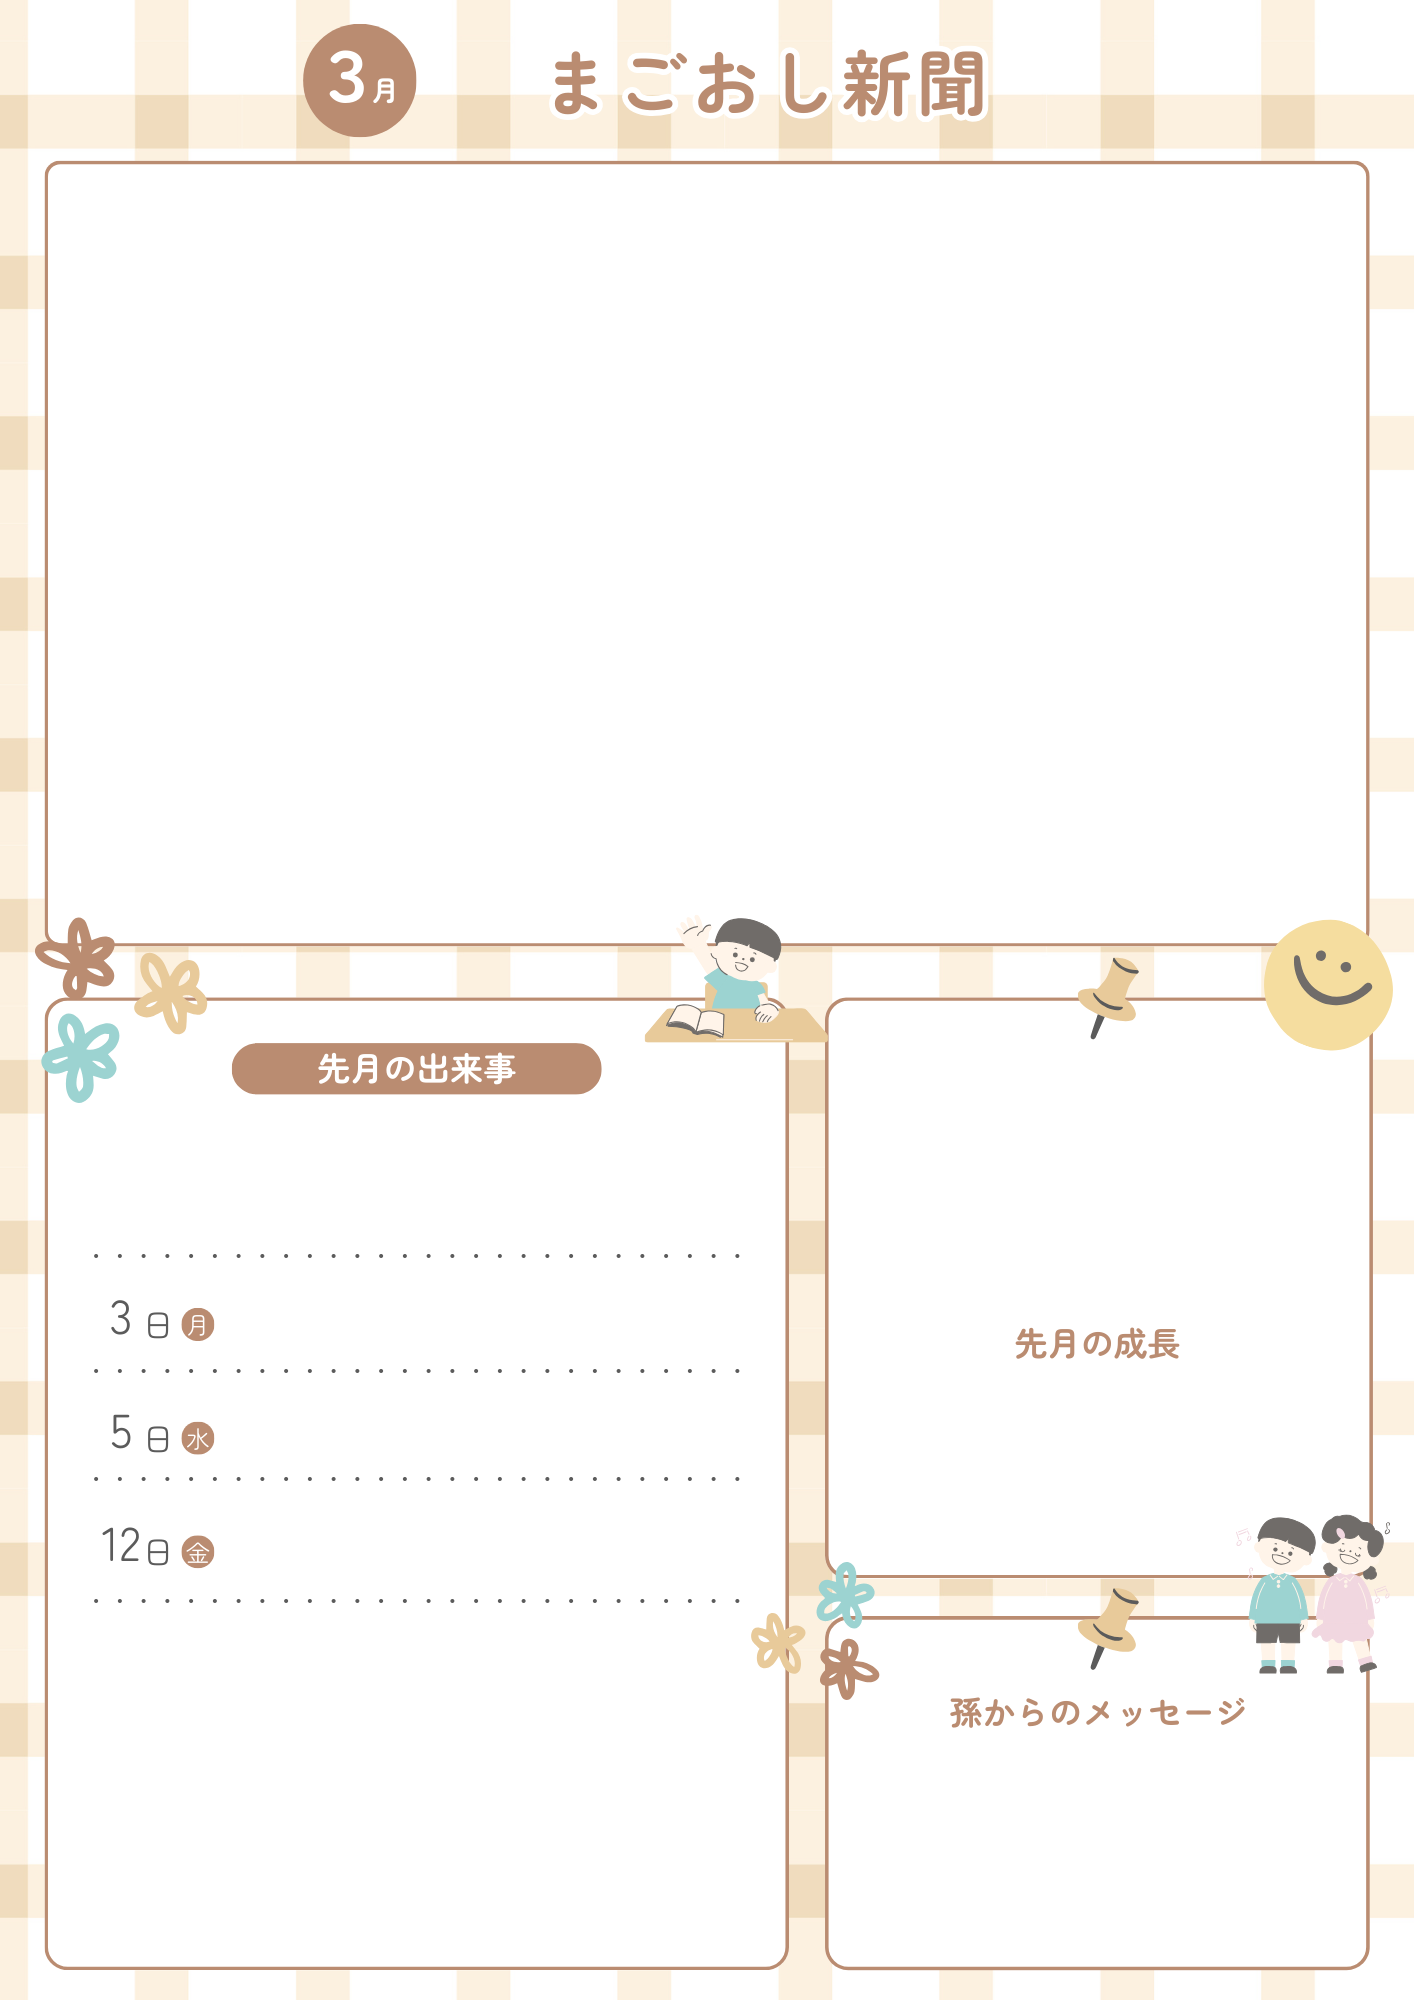
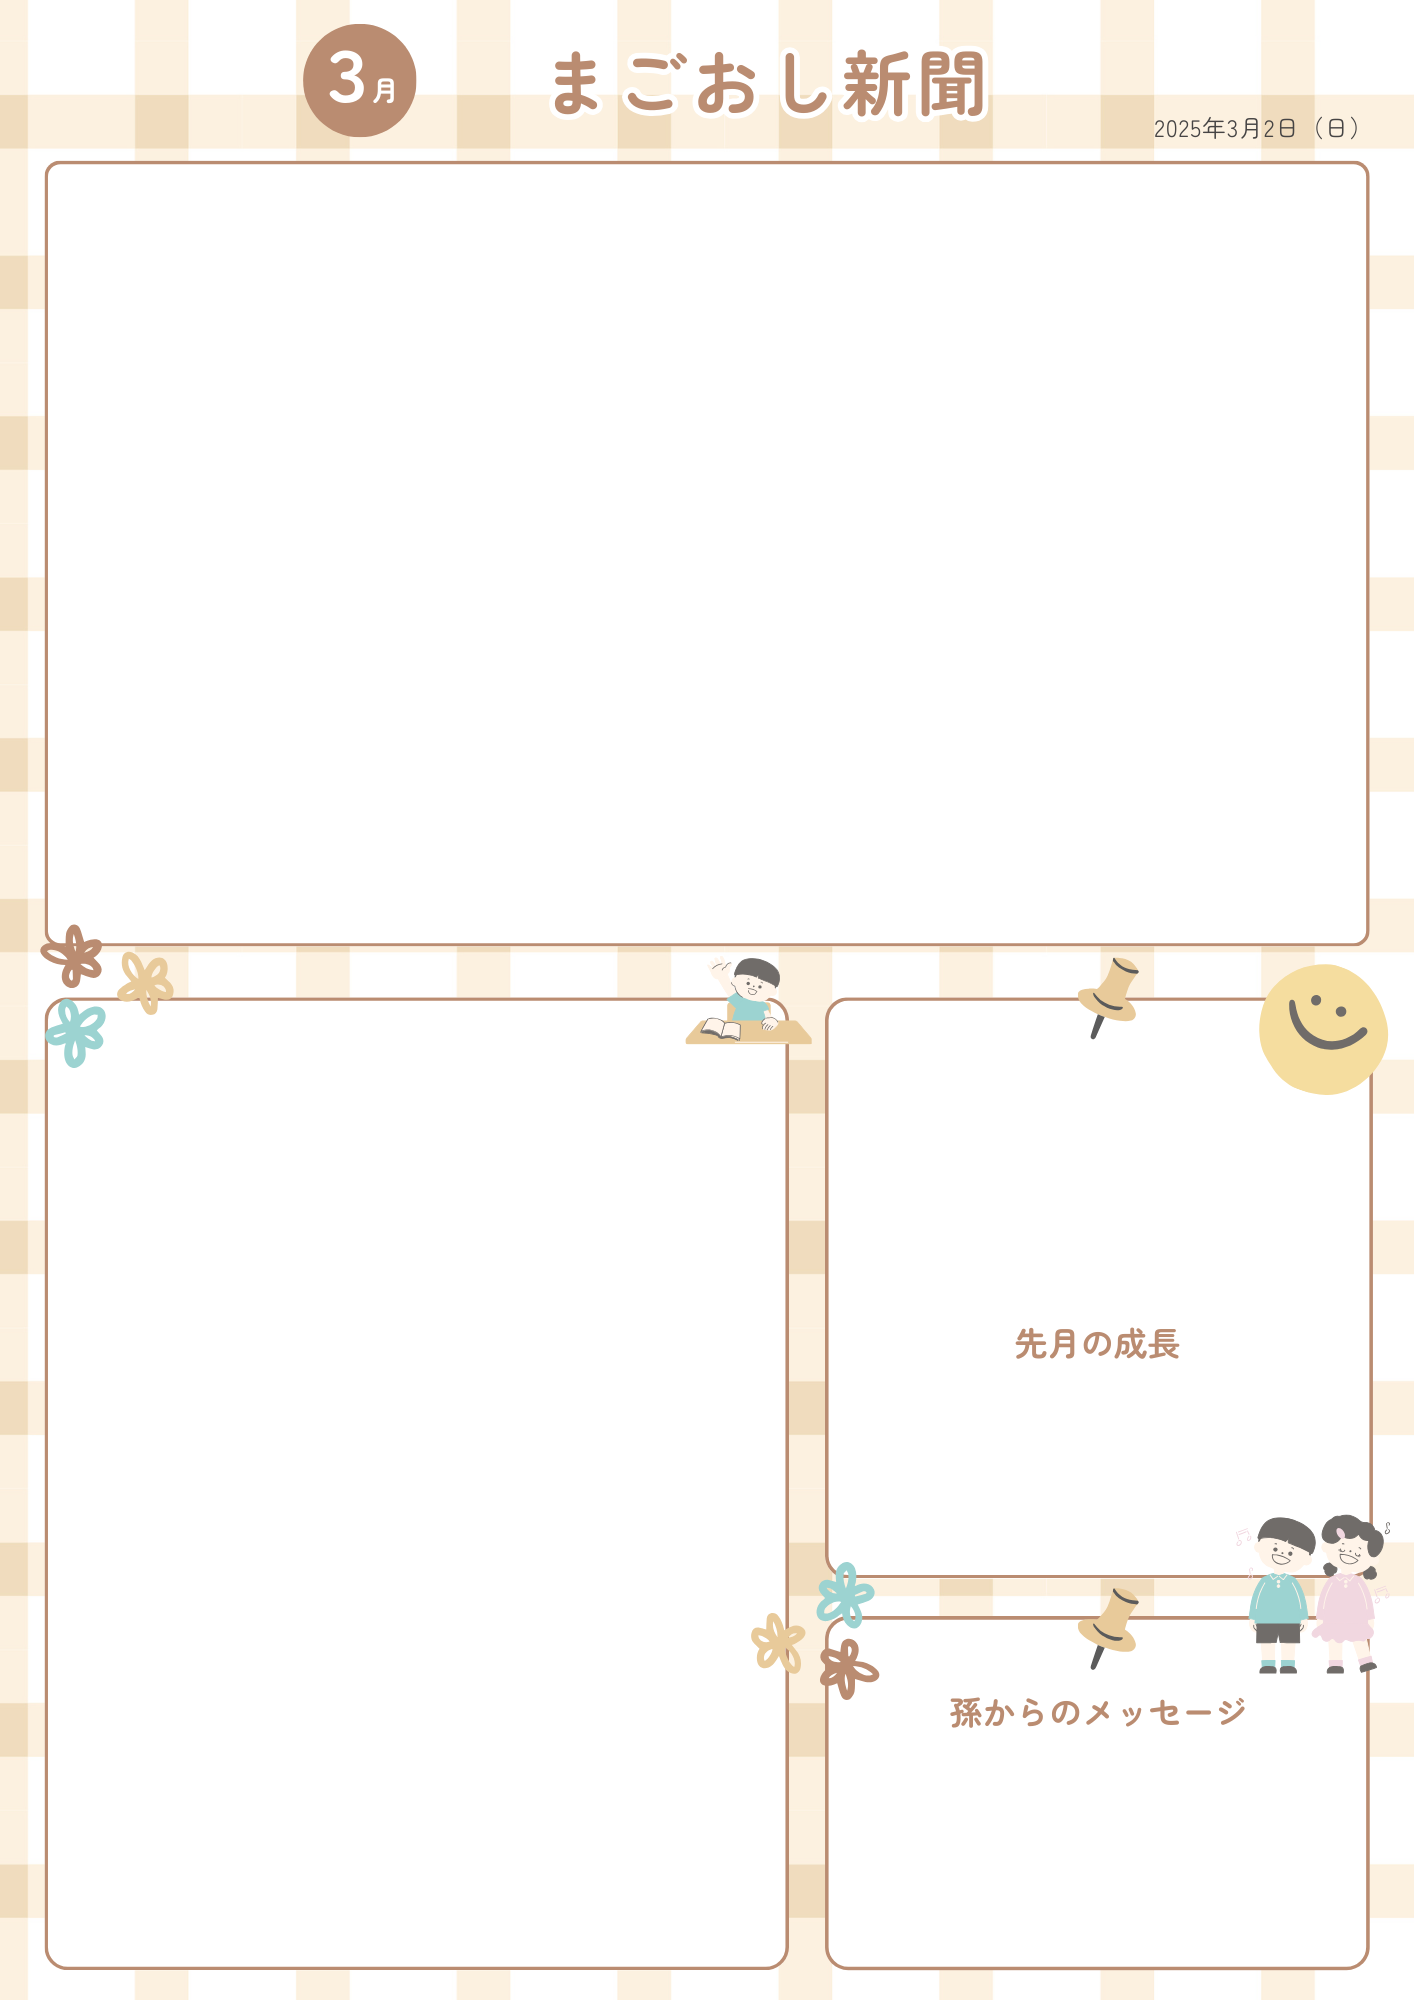
semi-final commit

diff --git a/src/lib/layoutGenerator.ts b/src/lib/layoutGenerator.ts
@@ -10,12 +10,17 @@ export const generateLayoutImage = async (
   const imagePositions = [
     { left: 68, top: 322, width: 1254, height: 562 }, // index 0
     { left: 860, top: 1044, width: 472, height: 242 }, // index 1
+    { left: 80, top: 1154, width: 662, height: 352 }, // index 2 のテキスト
+    { left: 80, top: 1539, width: 320, height: 390 }, // index 3 のテキスト
+    { left: 420, top: 1539, width: 320, height: 390 }, // index 4 のテキスト
   ]
 
   // テキストの配置領域
   const textPositions = [
-    { left: 68, top: 184, width: 1254, height: 562, fontSize: 48 }, // index 0 のテキスト
-    { left: 860, top: 1376, width: 472, height: 242, fontSize: 48 }, // index 1 のテキスト
+    { left: 68, top: 184, width: 1254, height: 562, fontSize: 18 }, // index 0 のテキスト
+    { left: 860, top: 1376, width: 472, height: 242, fontSize: 11 }, // index 1 のテキスト
+    { left: 160, top: 1046, width: 510, height: 104, fontSize: 14 }, // index 2 のテキスト
+    { left: 880, top: 1750, width: 432, height: 192, fontSize: 11 }, // index 3 のテキスト
   ]
 
   try {
@@ -29,18 +34,6 @@ export const generateLayoutImage = async (
     let layoutImage = baseImage
 
     for (let i = 0; i < imageUrls.length && i < imagePositions.length; i++) {
-      const topTextBuffer = Buffer.from(
-        `<svg width="${textPositions[i].width}" height="${
-          textPositions[i].height
-        }">
-          <text x="0" y="${textPositions[i].fontSize + 10}" font-size="${
-          textPositions[i].fontSize
-        }" fill="#5b5b5b" font-family="Zen Maru Gothic, sans-serif" textLength="${
-          textPositions[i].width
-        }" lengthAdjust="spacing">${textData[i] || ''}</text>
-        </svg>`
-      )
-
       // Firebase Storage から画像を取得
       const response = await fetch(imageUrls[i])
       const arrayBuffer = await response.arrayBuffer() // ArrayBuffer に変換
@@ -54,19 +47,33 @@ export const generateLayoutImage = async (
       )
 
       const clonedLayoutImage = layoutImage.clone()
-
       const composites = [
         {
           input: await resizedImage.toBuffer(),
           left: imagePositions[i].left,
           top: imagePositions[i].top,
         },
-        {
+      ]
+
+      // i < textPositions.length でテキストを配置するかどうかを判断
+      if (i < textPositions.length) {
+        const topTextBuffer = Buffer.from(
+          `<svg width="${textPositions[i].width}" height="${
+            textPositions[i].height
+          }">
+          <text x="0" y="${textPositions[i].fontSize + 10}" font-size="${
+            textPositions[i].fontSize
+          }" fill="#5b5b5b" font-family="Zen Maru Gothic, sans-serif" textLength="${
+            textPositions[i].width
+          }" lengthAdjust="spacing">${textData[i] || ''}</text>
+        </svg>`
+        )
+        composites.push({
           input: await sharp(topTextBuffer).toBuffer(),
           left: textPositions[i].left,
           top: textPositions[i].top,
-        },
-      ]
+        })
+      }
 
       clonedLayoutImage.composite(composites)
       layoutImage = await sharp(await clonedLayoutImage.toBuffer())

diff --git a/src/components/UploadForm/UploadForm.tsx b/src/components/UploadForm/UploadForm.tsx
@@ -34,16 +34,20 @@ const UploadForm: React.FC<UploadFormProps> = ({
   handleTextChange,
 }) => {
   const [videoFile, setVideoFile] = useState<File | null>(null)
-  const [isUploadDisabled, setIsUploadDisabled] = useState(true)
+  const [isUploadDisabled, setIsUploadDisabled] = useState(false)
 
   useEffect(() => {
     if (mode === 'video') {
       setIsUploadDisabled(!videoFile)
     } else {
       setIsUploadDisabled(
-        inputSets.some(
-          (set) => !set.imageFile || !set.text || set.text.length > 30
-        )
+        false
+        // inputSets.some(
+        //   (set, index) =>
+        //     !set.imageFile ||
+        //     (!set.text.trim() && index !== 4) ||
+        //     set.text.length > 75
+        // )
       )
     }
   }, [videoFile, inputSets, mode])
@@ -150,20 +154,24 @@ const UploadForm: React.FC<UploadFormProps> = ({
                     }}
                   />
                 </div>
-                <div>
-                  <Label htmlFor={`text-${index}`}>テキスト {index + 1}</Label>
-                  <Textarea
-                    id={`text-${index}`}
-                    value={inputSet.text}
-                    onChange={(e) => handleTextChange(e.target.value, index)}
-                    maxLength={30}
-                  />
-                  {inputSet.text.length > 30 && (
-                    <p className="text-red-500 text-sm">
-                      30文字以内で入力してください。
-                    </p>
-                  )}
-                </div>
+                {index < 4 && ( // index が 4 未満の場合のみテキスト入力欄を表示
+                  <div>
+                    <Label htmlFor={`text-${index}`}>
+                      テキスト {index + 1}
+                    </Label>
+                    <Textarea
+                      id={`text-${index}`}
+                      value={inputSet.text}
+                      onChange={(e) => handleTextChange(e.target.value, index)}
+                      maxLength={75}
+                    />
+                    {inputSet.text.length > 75 && (
+                      <p className="text-red-500 text-sm">
+                        75文字以内で入力してください。
+                      </p>
+                    )}
+                  </div>
+                )}
               </div>
               <Button
                 variant="outline"
